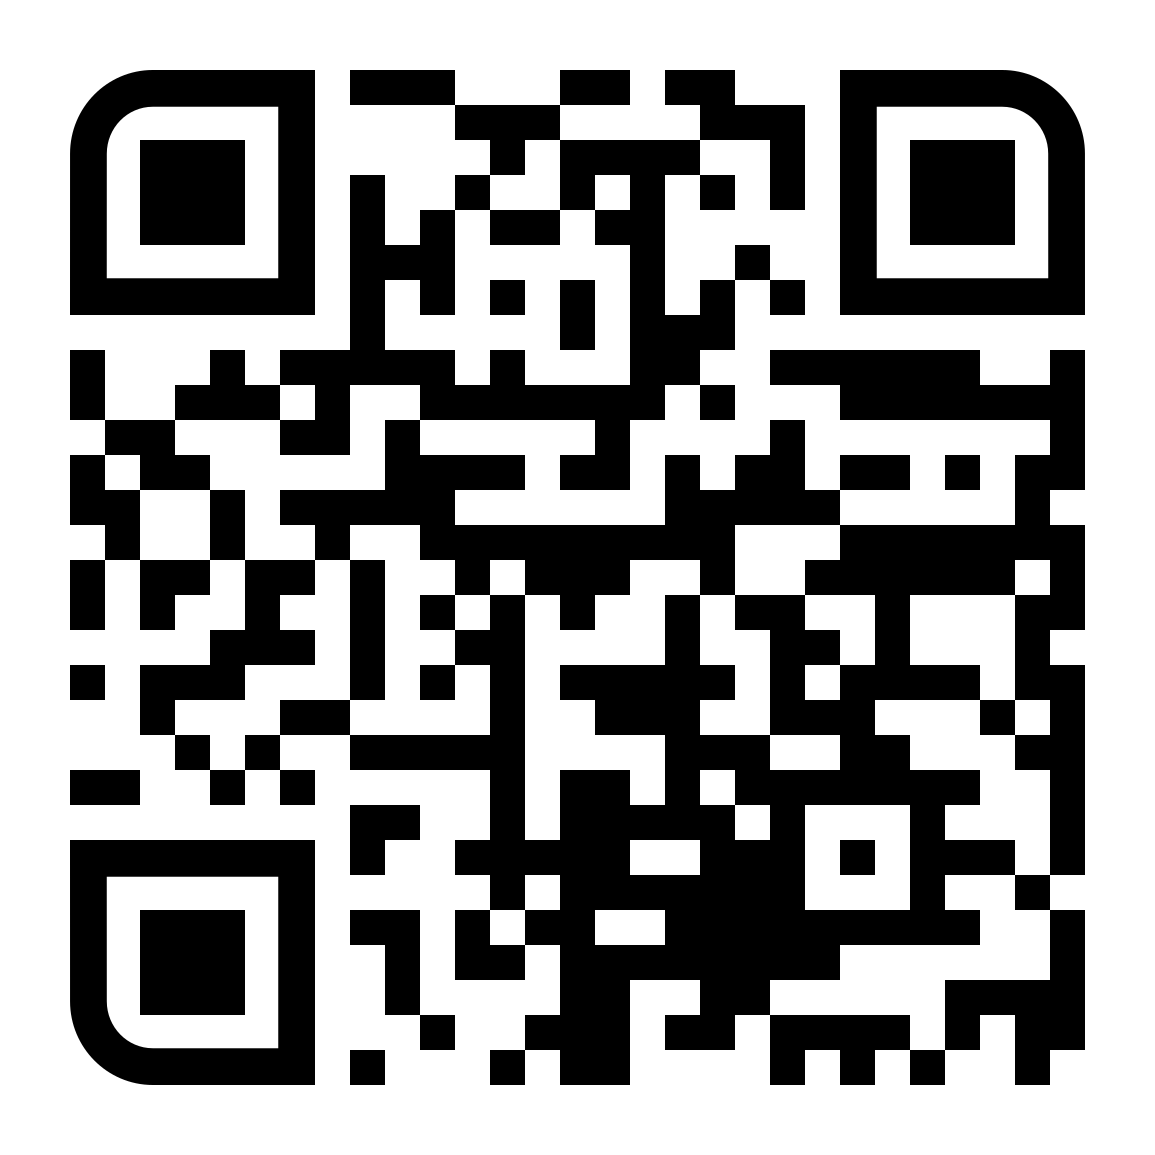
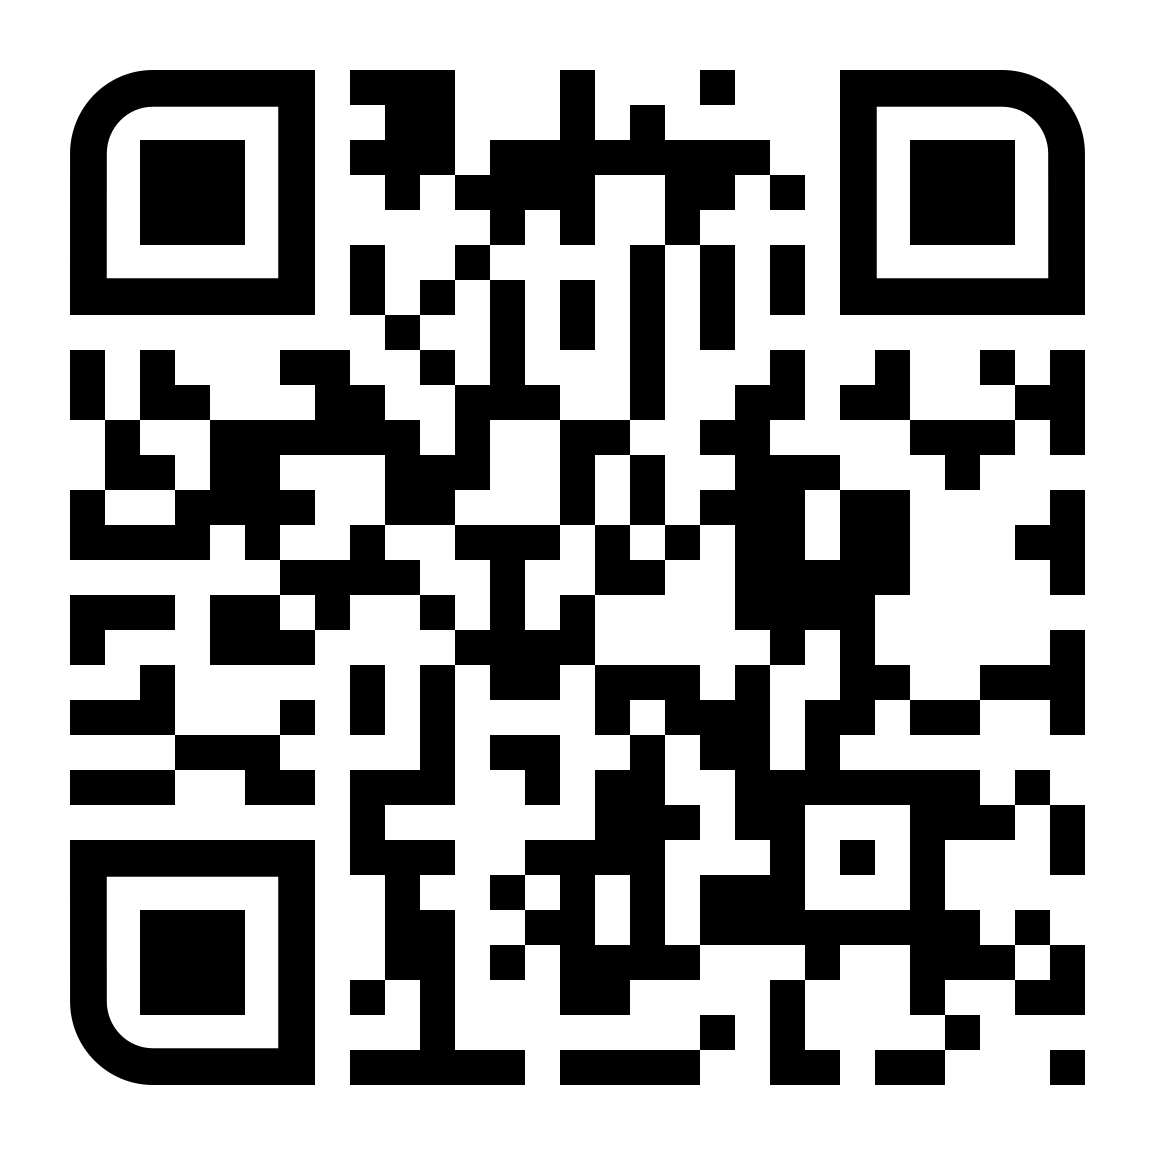
Add files via upload

Changed region(s): [[0.0623, 0.0623, 0.9662, 0.9662], [0.4052, 0.2494, 0.4675, 0.3117]]

diff --git a/index.html b/index.html
@@ -11,7 +11,7 @@
         <div class="main">
             <div class="banner">
                 <!-- LOGO -->
-<img src="./cover.1.jpg">
+<img src="./Cover Photo.jpg">
             </div>
 
 
@@ -24,14 +24,14 @@
 <!-- PROFILE IMAGE -->
 
 
-                <img src="./logo.jpg">
+                <img src="./Profile Photo.jpg">
     
             </div>
             <br/>
 
 
 <!-- NAME -->
-            <h2>MANGESH WAGH 
+            <h2>AAYUSH JAIN 
 
 
 
@@ -41,7 +41,7 @@
             <!-- WORK -->
 
 
-            <h3>  ULTRATECH CEMENT LIMITED 
+            <h3>  VISHAL PRINT-N-PLAST PRIVATE LIMITED (SINCE 1982)
 
 
 
@@ -52,8 +52,7 @@
             <!-- DESCRIPTION -->
 
 
-         <h4> ZONAL HEAD MARKETING, 
-            ROM ULTRATECH CEMENT LIMITED 
+         <h4> ONE-STOP PRINT-PACK SOLUTION
 
 
 
@@ -77,8 +76,7 @@
         <!-- CALLING NUMBER -->
 
 
-       <a href="tel:+919822171560
-
+       <a href="tel:+919167618009
 
        "> <img src="./call.jpg" alt=""></a>
         <p>Call</p>
@@ -88,7 +86,7 @@
         <!-- SMS NUMBER -->
 
 
-        <a href="sms:+919822171560
+        <a href="sms:+919167618009
 
         ">  <img src="./sms.jpg" alt=""></a>
         <p>SMS</p>
@@ -99,7 +97,7 @@
 
         <!-- EMAIL ID -->
 
-        <a href="mailto:mangesh.wagh@adityabirla.com
+        <a href="mailto:aayush@vishalprint.in
 
 
         ">  
@@ -128,7 +126,7 @@
 
         <!-- LOCATION -->
 
-        <a href="#
+        <a href="https://g.co/kgs/DRuvSih
         ">
             <img src="./location.jpg" alt=""></a>
         <p>Location</p>
@@ -137,7 +135,7 @@
 
 
         <!-- SAVE CONTACT -->
-        <a href="https://vcard.link/card/Drfo.vcf">  <img src="./save contact.jpg" alt=""></a>
+        <a href="https://vcard.link/card/Drf8.vcf">  <img src="./save contact.jpg" alt=""></a>
         <p>SAVE<br/>CONTACT</p>
     </div>
 
@@ -191,7 +189,7 @@
 
 
 
-        <a href="https://api.whatsapp.com/send?phone=+919822171560
+        <a href="https://api.whatsapp.com/send?phone=+919167618009
 
         ">
             <img src="./01.jpg" alt=""></a>
